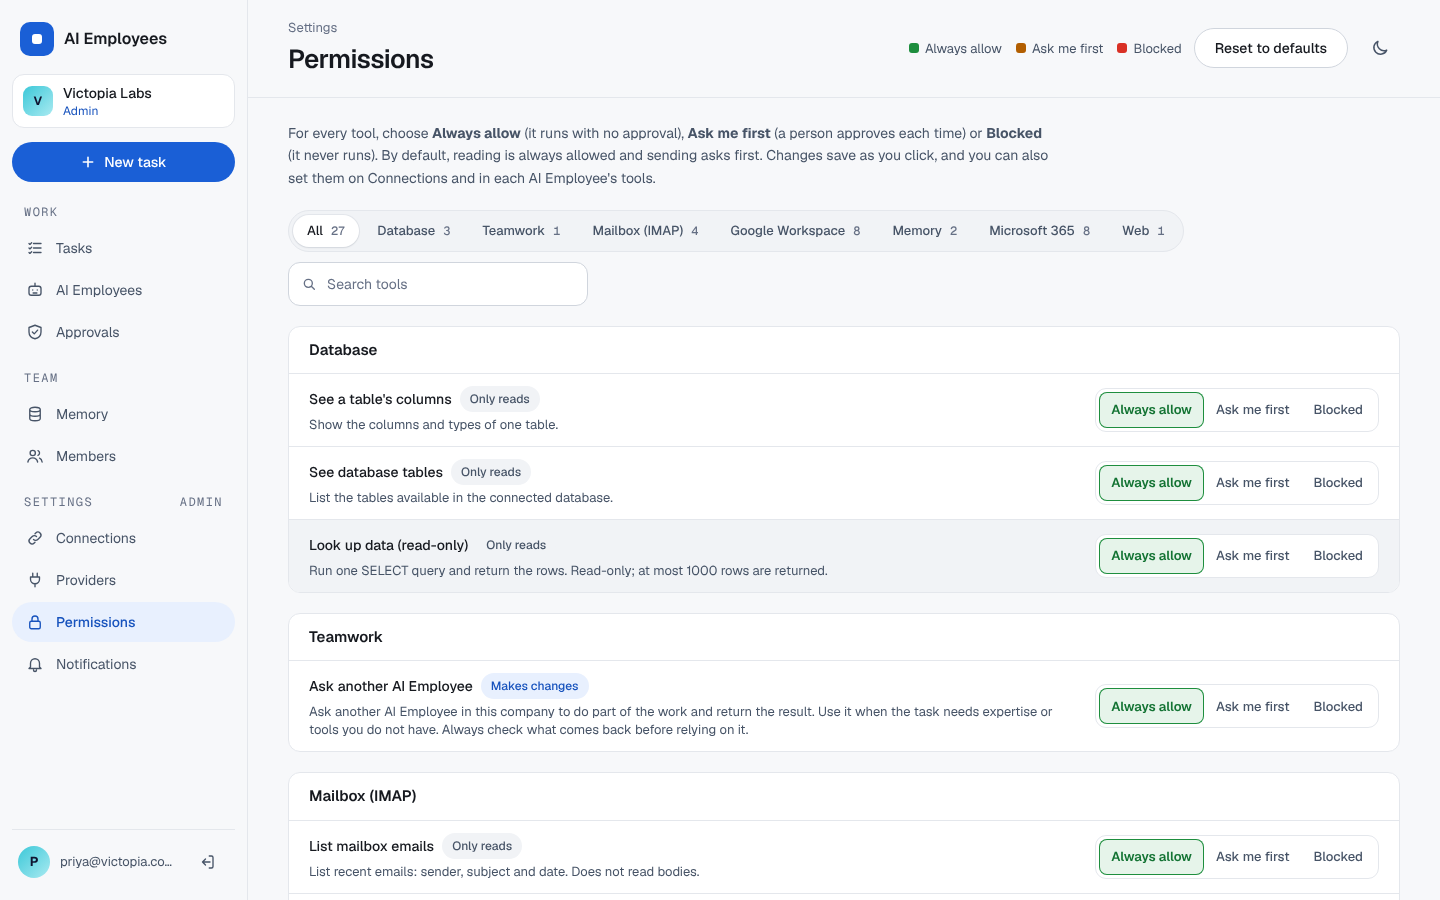
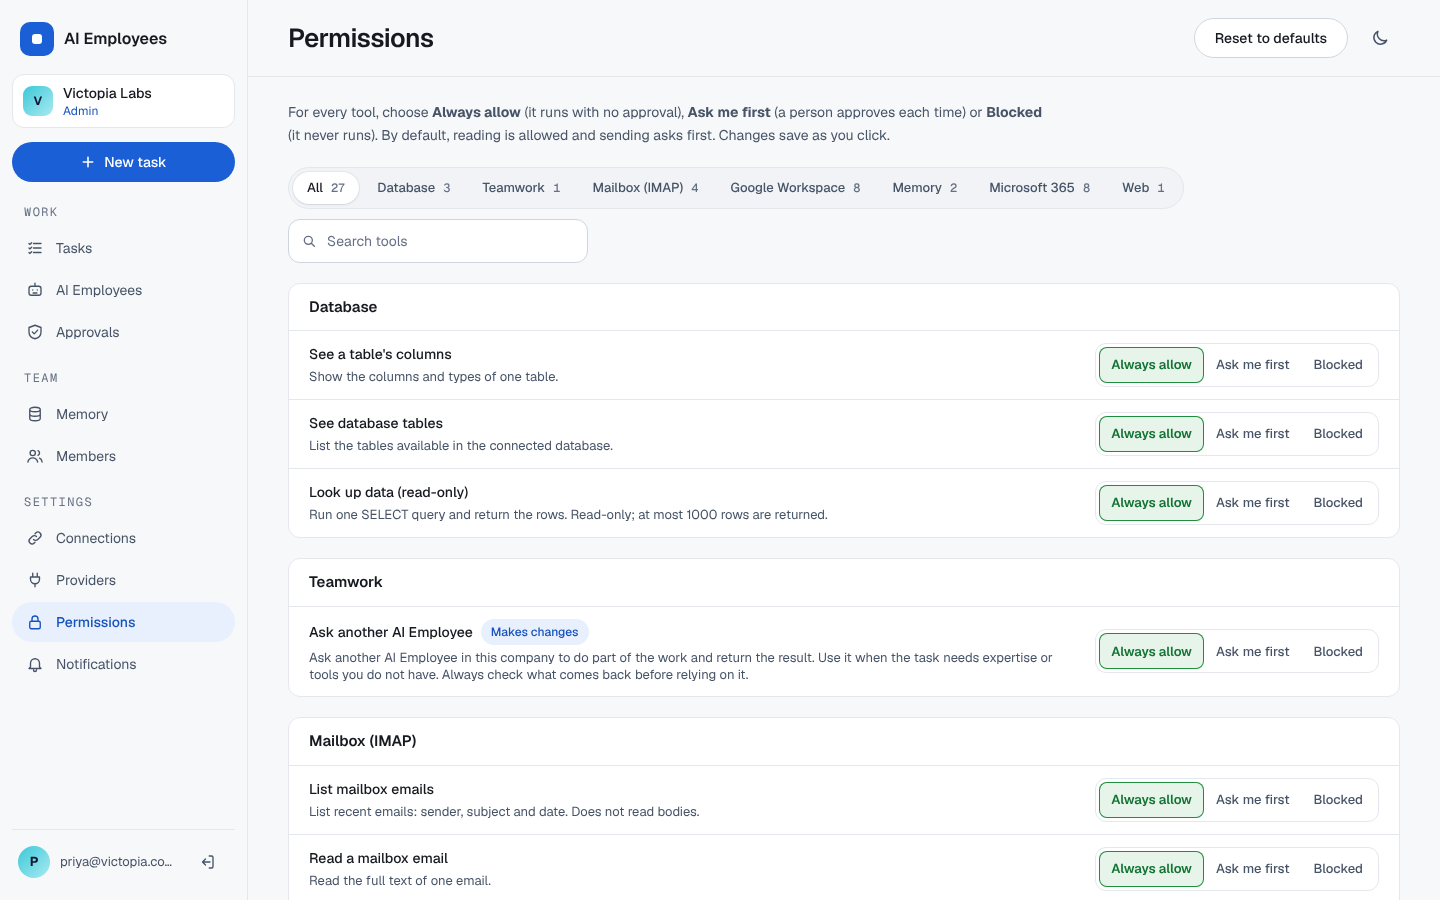
style: remove repeated words and redundant UI across the website
- Page headers no longer repeat the menu's section label; the menu's
  extra "admin" note is gone.
- Run timeline: one row per tool (call and result merged, with a check
  or an error), and "Thinking" only while it is happening. 19 rows
  become 11 for a typical run.
- Run panel shows only the part of the request not already in its title.
- "Only reads" is no longer printed on every tool (Connections, tool
  picker, Permissions); only tools that change or send are labelled.
- Model names without the repeated provider ("gemini-2.0-flash").
- Notifications says once who gets task updates.
- Approvals, Permissions and the product page: repeated hints, legend,
  closing section and tagline removed; memories drop the default
  "fact" tag.
About 100 fewer pieces of text across the screens. README screenshots
refreshed.

Claude-Session: https://claude.ai/code/session_01V6i5w3eSPodChuQRWidyQA

diff --git a/frontend/src/pages/Tasks.tsx b/frontend/src/pages/Tasks.tsx
@@ -462,7 +462,10 @@ function RunPanel({
         <div className="flex items-start gap-3">
           <div className="flex min-w-0 flex-1 flex-col gap-1.5">
             <h2 className="font-display text-[19px] font-semibold tracking-[-0.015em]">{task.title ?? "Untitled"}</h2>
-            <p className="whitespace-pre-wrap text-sm leading-normal text-muted">{task.input}</p>
+            {/* The title is the start of the request, so only the rest is shown. */}
+            {restOfRequest(task.title, task.input) && (
+              <p className="whitespace-pre-wrap text-sm leading-normal text-muted">{restOfRequest(task.title, task.input)}</p>
+            )}
           </div>
           <div className="flex flex-col items-end gap-1.5">
             <StatusChip status={task.status} />
@@ -485,7 +488,7 @@ function RunPanel({
           value={view}
           onChange={setView}
           items={[
-            { key: "timeline", label: "Timeline", count: events.length },
+            { key: "timeline", label: "Timeline", count: timelineRows(events, running).length },
             { key: "tree", label: "Agent tree", count: delegations },
             { key: "result", label: "Result" },
           ]}
@@ -637,6 +640,43 @@ const TONE_STEP: Record<string, string> = {
   mute: "bg-raised border-line2 text-dim",
 };
 
+/** The request without the part already shown as its title. */
+function restOfRequest(title: string | null | undefined, input: string): string {
+  const text = input.trim();
+  if (!title) return text;
+  const head = title.trim().replace(/[.?!…]+$/, "");
+  if (!text.toLowerCase().startsWith(head.toLowerCase())) return text;
+  return text.slice(head.length).replace(/^[\s.?!…:,-]+/, "").trim();
+}
+
+type Row = { event: RunEvent; result?: RunEvent };
+
+/**
+ * One row per thing that happened, not per event: a tool call and its
+ * result share a row, and "Thinking" only shows while it is happening
+ * (every step thinks, so a permanent row for it would just repeat).
+ */
+export function timelineRows(events: RunEvent[], running: boolean): Row[] {
+  const rows: Row[] = [];
+  events.forEach((event, i) => {
+    if (event.type === "thinking") {
+      if (running && i === events.length - 1) rows.push({ event });
+      return;
+    }
+    if (event.type === "tool_result") {
+      for (let k = rows.length - 1; k >= 0; k--) {
+        const row = rows[k];
+        if (row.event.type === "tool_call" && row.event.tool === event.tool && !row.result) {
+          row.result = event;
+          return;
+        }
+      }
+    }
+    rows.push({ event });
+  });
+  return rows;
+}
+
 function Timeline({ events, running }: { events: RunEvent[]; running: boolean }) {
   const end = useRef<HTMLLIElement>(null);
 
@@ -663,26 +703,27 @@ function Timeline({ events, running }: { events: RunEvent[]; running: boolean })
   return (
     <ol className="relative flex max-h-[30rem] flex-col gap-0.5 overflow-y-auto pr-1">
       <li aria-hidden="true" className="absolute bottom-6 left-[19px] top-6 w-0.5" style={{ background: "linear-gradient(var(--line2),var(--run))" }} />
-      {events.map((event, i) => {
-        const style = eventStyle(event);
-        const last = i === events.length - 1;
-        const live = last && running;
-        const detail = eventDetail(event);
+      {timelineRows(events, running).map(({ event, result }, i, rows) => {
+        const failed = result?.ok === false;
+        const style = result ? (failed ? { tone: "bad" as const, icon: "x" as IconName } : { tone: "mute" as const, icon: "check" as IconName }) : eventStyle(event);
+        const last = i === rows.length - 1;
+        const live = last && running && !result;
+        const detail = failed ? String(result?.error ?? "it reported a problem") : eventDetail(event);
         return (
           <li key={event.seq} className="slide-in relative flex gap-3.5 py-1.5" style={{ animationDelay: `${Math.min(i, 10) * 0.03}s` }}>
             {live ? (
               <span className="halo relative h-10 w-10 shrink-0 rounded-xl p-[1.5px]">
                 <span className="flex h-full w-full items-center justify-center rounded-[10.5px] bg-run-soft font-mono text-xs text-run-text">
-                  {event.seq}
+                  {i + 1}
                 </span>
               </span>
             ) : (
               <span className={`relative flex h-10 w-10 shrink-0 items-center justify-center rounded-xl border font-mono text-xs ${TONE_STEP[style.tone]}`}>
-                {style.icon ? <Icon name={style.icon} size={17} /> : event.seq}
+                {style.icon ? <Icon name={style.icon} size={17} /> : i + 1}
               </span>
             )}
             <div className="flex min-w-0 flex-col gap-0.5 pt-0.5" title={eventTechnical(event)}>
-              <span className={`text-sm font-medium ${live ? "text-run-text" : ""}`}>
+              <span className={`text-sm font-medium ${live ? "text-run-text" : ""} ${failed ? "text-bad-text" : ""}`}>
                 {eventTitle(event)}
                 {live && <span className="caret">_</span>}
               </span>

diff --git a/frontend/src/pages/Policies.tsx b/frontend/src/pages/Policies.tsx
@@ -152,11 +152,6 @@ export default function Policies() {
   return (
     <>
       <PageHeader crumb="Settings" title="Permissions">
-        <div className="hidden flex-wrap gap-3.5 text-[13px] text-muted md:flex">
-          <span className="flex items-center gap-1.5"><i className="h-2.5 w-2.5 rounded-[3px] bg-ok" />Always allow</span>
-          <span className="flex items-center gap-1.5"><i className="h-2.5 w-2.5 rounded-[3px] bg-ask" />Ask me first</span>
-          <span className="flex items-center gap-1.5"><i className="h-2.5 w-2.5 rounded-[3px] bg-bad" />Blocked</span>
-        </div>
         <Button variant="ghost" onClick={() => void reset()}>
           Reset to defaults
         </Button>
@@ -165,8 +160,8 @@ export default function Policies() {
       <PageBody>
         <p className="rise max-w-3xl text-sm leading-relaxed text-muted">
           For every tool, choose <b>Always allow</b> (it runs with no approval), <b>Ask me first</b> (a person approves
-          each time) or <b>Blocked</b> (it never runs). By default, reading is always allowed and sending asks first.
-          Changes save as you click, and you can also set them on Connections and in each AI Employee's tools.
+          each time) or <b>Blocked</b> (it never runs). By default, reading is allowed and sending asks first. Changes
+          save as you click.
         </p>
 
         <ErrorNote message={error} />
@@ -205,9 +200,11 @@ export default function Policies() {
                   <div className="flex min-w-[220px] flex-1 flex-col gap-1">
                     <span className="flex flex-wrap items-center gap-2">
                       <span className="text-sm font-medium" title={tool.name}>{toolLabel(tool.name)}</span>
-                      <Chip tone={statusTone(tool.side_effect)} dot={false}>
-                        {effectLabel(tool.side_effect)}
-                      </Chip>
+                      {tool.side_effect !== "read" && (
+                        <Chip tone={statusTone(tool.side_effect)} dot={false}>
+                          {effectLabel(tool.side_effect)}
+                        </Chip>
+                      )}
                     </span>
                     <span className="text-[13px] leading-snug text-muted">{tool.description}</span>
                     {/* Only worth a line when it is not the default: the tag already says what the default means. */}

diff --git a/frontend/src/pages/Notifications.tsx b/frontend/src/pages/Notifications.tsx
@@ -14,9 +14,9 @@ import { useAuth } from "../lib/auth";
 type EventKey = "on_approval_requested" | "on_task_completed" | "on_task_failed";
 
 const EVENTS: { key: EventKey; title: string; who: string }[] = [
-  { key: "on_approval_requested", title: "An action needs approval", who: "Every admin, with Approve and Reject buttons" },
-  { key: "on_task_failed", title: "A task fails", who: "The person who assigned it" },
-  { key: "on_task_completed", title: "A task finishes", who: "The person who assigned it" },
+  { key: "on_approval_requested", title: "An action needs approval", who: "To every admin, with Approve and Reject buttons" },
+  { key: "on_task_failed", title: "A task fails", who: "" },
+  { key: "on_task_completed", title: "A task finishes", who: "" },
 ];
 
 export default function Notifications() {
@@ -184,12 +184,15 @@ export default function Notifications() {
         <ErrorNote message={error} />
 
         <section className="card rise flex flex-col p-1.5" style={{ animationDelay: ".14s" }} data-coach="notify-when">
-          <h2 className="px-4 pb-1 pt-3.5 font-display text-[17px] font-semibold">Tell us when</h2>
+          <div className="flex flex-col gap-0.5 px-4 pb-1 pt-3.5">
+            <h2 className="font-display text-[17px] font-semibold">Tell us when</h2>
+            <p className="text-[13px] text-dim">Task updates go to the person who assigned the task.</p>
+          </div>
           {EVENTS.map((event) => (
             <div key={event.key} className="flex items-center gap-4 rounded-xl px-4 py-3.5 hover:bg-raised">
               <div className="flex-1">
                 <div className="text-sm font-medium">{event.title}</div>
-                <div className="text-[13px] text-dim">{event.who}</div>
+                {event.who && <div className="text-[13px] text-dim">{event.who}</div>}
               </div>
               <Switch
                 checked={settings[event.key]}

diff --git a/frontend/src/pages/Product.tsx b/frontend/src/pages/Product.tsx
@@ -256,26 +256,11 @@ export default function Product() {
         </div>
       </section>
 
-      {/* ---------------------------------------------------- call to action */}
-      <section className="px-4 pb-20 sm:px-6">
-        <div className="halo mx-auto max-w-[1200px] rounded-[28px] p-[1.5px]">
-          <div className="relative flex flex-col items-center gap-5 overflow-hidden rounded-[27px] bg-panel px-6 py-16 text-center" style={{ background: "var(--hero), var(--panel)" }}>
-            <h2 className="max-w-[720px] font-display text-[32px] font-semibold leading-tight tracking-[-0.02em] sm:text-[44px]">
-              Put your first AI Employee <span className="spectrum-text">to work today.</span>
-            </h2>
-            <p className="max-w-[520px] text-muted">Accounts are by invitation. Ask your company admin for a link, or sign in if you have one.</p>
-            <Link to={primary.to} className="btn btn-primary">
-              {primary.label} <Icon name="arrow" size={16} />
-            </Link>
-          </div>
-        </div>
-      </section>
-
       <footer className="border-t border-line">
         <div className="mx-auto flex max-w-[1200px] flex-wrap items-center gap-4 px-4 py-8 text-[13px] text-dim sm:px-6">
           <BrandMark size={24} />
           <span>AI Employees</span>
-          <span className="ml-auto">Your AI team, already at work.</span>
+          <span className="ml-auto">For operations, sales, HR and engineering teams.</span>
         </div>
       </footer>
     </div>

diff --git a/frontend/src/pages/Connections.tsx b/frontend/src/pages/Connections.tsx
@@ -296,9 +296,12 @@ function ToolPermissions({
           <li key={tool.name} className="flex flex-wrap items-center gap-x-3 gap-y-2 border-b border-line px-3.5 py-3 last:border-0">
             <span className="flex min-w-[170px] flex-1 flex-col">
               <span className="text-sm font-medium" title={tool.name}>{toolLabel(tool.name)}</span>
-              <span className={`text-xs ${tool.side_effect === "destructive" ? "text-bad-text" : "text-dim"}`}>
-                {effectLabel(tool.side_effect)}
-              </span>
+              {/* Reading is the normal case, so only changes are labelled. */}
+              {tool.side_effect !== "read" && (
+                <span className={`text-xs ${tool.side_effect === "destructive" ? "text-bad-text" : "text-dim"}`}>
+                  {effectLabel(tool.side_effect)}
+                </span>
+              )}
             </span>
             {isAdmin ? (
               <PermissionChoice

diff --git a/frontend/src/components/ui.tsx b/frontend/src/components/ui.tsx
@@ -152,18 +152,19 @@ export function Card({
 
 /** The bar at the top of every screen: where you are, the screen's actions, the theme switch. */
 export function PageHeader({
-  crumb,
   title,
   children,
 }: {
+  /** Kept for callers; no longer shown, as the menu already says it. */
   crumb?: ReactNode;
   title: ReactNode;
   children?: ReactNode;
 }) {
   return (
     <header className="flex flex-wrap items-center gap-3 border-b border-line px-4 py-[18px] sm:px-6 lg:px-10">
+      {/* The menu already shows which section this page is in, so the
+          small section label above the title is not repeated here. */}
       <div className="flex min-w-0 flex-1 flex-col gap-0.5">
-        {crumb && <div className="flex items-center gap-2 truncate text-[13px] text-dim">{crumb}</div>}
         <h1 className="truncate font-display text-[26px] font-semibold tracking-[-0.02em]">{title}</h1>
       </div>
       {children}

diff --git a/frontend/src/components/ToolPicker.tsx b/frontend/src/components/ToolPicker.tsx
@@ -104,7 +104,9 @@ export function ToolPicker({
                     <span className="flex min-w-0 flex-1 flex-col gap-0.5">
                       <span className="flex flex-wrap items-center gap-1.5">
                         <span className="text-[13px] font-medium text-ink" title={tool.name}>{toolLabel(tool.name)}</span>
-                        <Chip tone={statusTone(tool.side_effect)} dot={false}>{effectLabel(tool.side_effect)}</Chip>
+                        {tool.side_effect !== "read" && (
+                          <Chip tone={statusTone(tool.side_effect)} dot={false}>{effectLabel(tool.side_effect)}</Chip>
+                        )}
                       </span>
                       <span className="text-xs leading-snug text-dim">{tool.description}</span>
                     </span>

diff --git a/frontend/src/lib/labels.ts b/frontend/src/lib/labels.ts
@@ -98,7 +98,8 @@ export function isAutoModel(model: string): boolean {
 export function modelLabel(model: string): string {
   if (isAutoModel(model)) return "Automatic AI";
   const [provider, name] = model.includes(":") ? model.split(/:(.*)/s) : ["gemini", model];
-  return `${PROVIDER_NAMES[provider] ?? humanise(provider)} · ${name}`;
+  // The model name usually already says the provider ("gemini-2.0-flash").
+  return name.toLowerCase().includes(provider.toLowerCase()) ? name : `${PROVIDER_NAMES[provider] ?? humanise(provider)} ${name}`;
 }
 
 /** "Default for Google · can't be undone", from the server's reason. */

diff --git a/frontend/src/pages/Memory.tsx b/frontend/src/pages/Memory.tsx
@@ -334,9 +334,12 @@ function MemoryCard({
     >
       <p className="whitespace-pre-wrap text-[15px] leading-relaxed">{content}</p>
       <div className="flex flex-wrap items-center gap-2 text-xs">
-        <Chip tone={KIND_TONE[kind] ?? "mute"} dot={false}>
+{/* "fact" is the usual kind, so only the others get a tag. */}
+        {kind !== "fact" && (
+                  <Chip tone={KIND_TONE[kind] ?? "mute"} dot={false}>
           {kind}
         </Chip>
+        )}
         {meta}
         {onForget && (
           <Button size="sm" variant="ghost" className="ml-auto" onClick={onForget}>

diff --git a/frontend/src/pages/Approvals.tsx b/frontend/src/pages/Approvals.tsx
@@ -197,7 +197,7 @@ function ApprovalCard({
           <Link to="/tasks" className="btn btn-ghost">
             View tasks
           </Link>
-          {destructive && <span className="text-xs text-dim">Can't be undone, so hold the button for a second (or press Enter twice).</span>}
+          {destructive && <span className="text-xs text-dim">Hold for a second, or press Enter twice.</span>}
         </div>
       </div>
     </article>

diff --git a/frontend/src/components/Layout.tsx b/frontend/src/components/Layout.tsx
@@ -35,7 +35,6 @@ const SECTIONS: { title: string; note?: string; items: NavItem[] }[] = [
   },
   {
     title: "Settings",
-    note: "admin",
     items: [
       { to: "/connections", label: "Connections", icon: "link", adminOnly: true },
       { to: "/providers", label: "Providers", icon: "providers", adminOnly: true },
